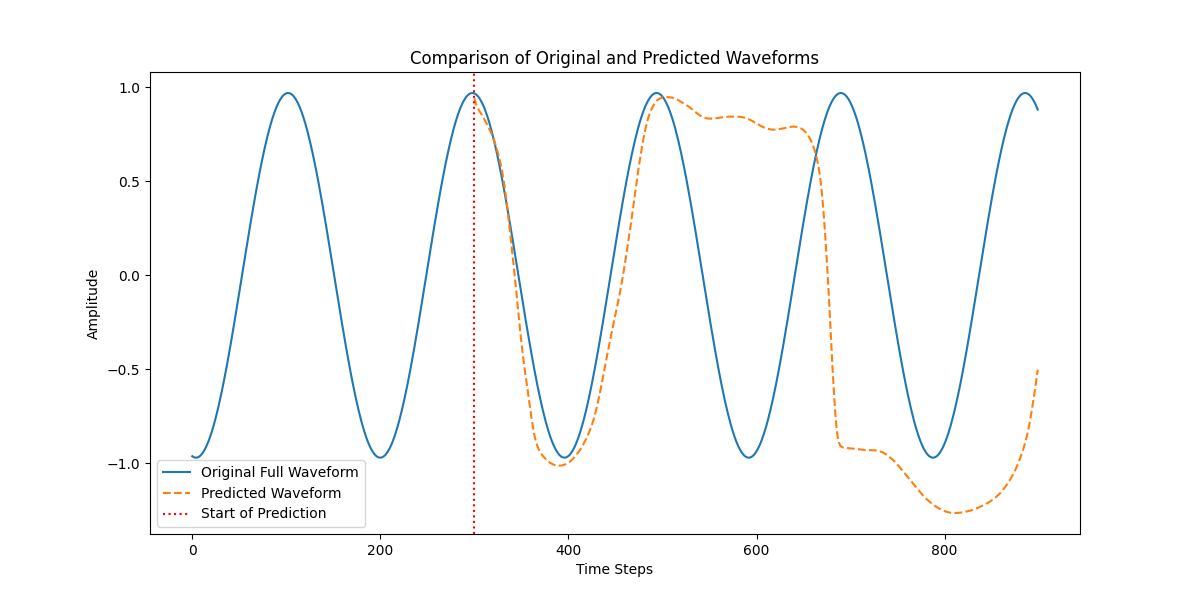
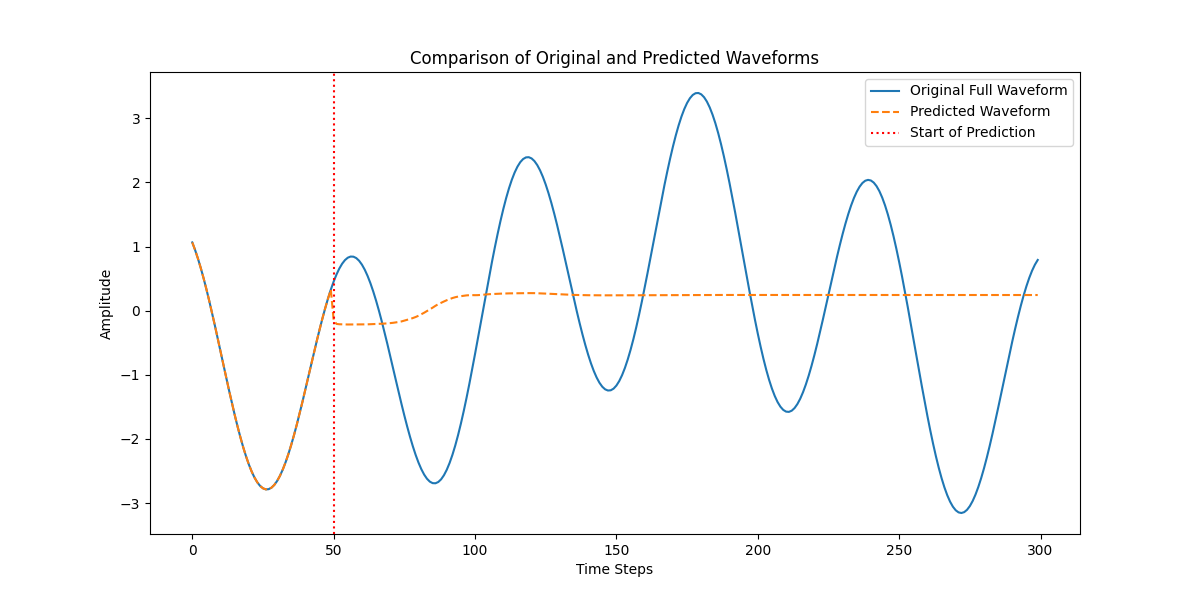
progress

diff --git a/playground/playground.py b/playground/playground.py
@@ -7,15 +7,29 @@ device = torch.device("mps" if torch.backends.mps.is_available() else "cpu")
 print(f"Using device: {device}")
 
 
-def generate_waveforms(num_sequences, full_sequence_length, num_modes, freq_range, amp_range, phase_range):
-    waveforms = np.zeros((num_sequences, full_sequence_length))
-    t = np.linspace(0, 3, full_sequence_length, endpoint=False)
+def generate_waveforms(num_sequences, sequence_length, num_modes, freq_range, amp_range, phase_range):
+    """
+    Generates a dataset of waveforms, each composed of a sum of sinusoidal modes.
+
+    Parameters:
+    - num_sequences (int): Number of waveform sequences to generate.
+    - sequence_length (int): Number of samples in each waveform sequence.
+    - num_modes (int): Number of sinusoidal modes per sequence.
+    - freq_range (tuple): Range of frequencies (min_freq, max_freq).
+    - amp_range (tuple): Range of amplitudes (min_amp, max_amp).
+    - phase_range (tuple): Range of phases (min_phase, max_phase).
+
+    Returns:
+    - np.array: Array of shape (num_sequences, sequence_length) containing the generated waveforms.
+    """
+    waveforms = np.zeros((num_sequences, sequence_length))
+    t = np.linspace(0, 2 * np.pi, sequence_length, endpoint=False)
     for i in range(num_sequences):
         for _ in range(num_modes):
             frequency = np.random.uniform(*freq_range)
             amplitude = np.random.uniform(*amp_range)
             phase = np.random.uniform(*phase_range)
-            waveforms[i] += amplitude * np.sin(2 * np.pi * frequency * t + phase)
+            waveforms[i] += amplitude * np.sin(frequency * t + phase)
     return waveforms
 
 
@@ -91,7 +105,7 @@ def prepare_data(waveforms, base_sequence_length):
 if __name__ == "__main__":
     num_epochs = 20
     num_sequences = 20
-    base_sequence_length = 300  # Consistent sequence length for training and inference
+    base_sequence_length = 150  # Consistent sequence length for training and inference
     full_sequence_length = base_sequence_length * 6  # Longer sequence to enable sliding window
     num_modes = 5
     freq_range = (1, 5)
@@ -100,6 +114,14 @@ if __name__ == "__main__":
 
     waveforms = generate_waveforms(num_sequences, full_sequence_length, num_modes, freq_range, amp_range, phase_range)
     inputs, targets = prepare_data(waveforms, base_sequence_length)
+
+    plt.figure(figsize=(12, 6))
+    plt.plot(np.arange(full_sequence_length), waveforms[0], label='Input Waveform')
+    plt.legend()
+    plt.title('Input Waveform')
+    plt.xlabel('Time Steps')
+    plt.ylabel('Amplitude')
+    plt.savefig('input_waveform.png')
 
     print(inputs.shape)
     print(targets.shape)
@@ -130,7 +152,10 @@ if __name__ == "__main__":
             while len(predictions) < (total_length - initial_input.size(1)):
                 output = model(input_sequence)
                 predictions.append(output)
+                output = output.unsqueeze(1)
                 # Append the predicted token to the input sequence
+                print("input sequence shape: ", input_sequence.shape)
+                print("output shape: ", output.shape)
                 input_sequence = torch.cat((input_sequence, output), dim=1)
                 # Sliding window: remove the oldest token if sequence length exceeds base_sequence_length
                 if input_sequence.size(1) > base_sequence_length:
@@ -142,13 +167,31 @@ if __name__ == "__main__":
     predicted_output = autoregressive_inference(model, test_input, full_sequence_length, base_sequence_length)
     predicted_output = predicted_output.squeeze().cpu().numpy()
 
+    # Combine the input sequence and predicted output
+    combined_output = np.concatenate((test_input.squeeze().cpu().numpy(), predicted_output))
+
     plt.figure(figsize=(12, 6))
     plt.plot(np.arange(full_sequence_length), waveforms[0], label='Original Full Waveform')
-    plt.plot(np.arange(base_sequence_length, full_sequence_length),
-             predicted_output, label='Predicted Waveform', linestyle='--')
+    plt.plot(np.arange(full_sequence_length), combined_output, label='Predicted Waveform', linestyle='--')
     plt.axvline(x=base_sequence_length, color='r', linestyle=':', label='Start of Prediction')
     plt.legend()
     plt.title('Comparison of Original and Predicted Waveforms')
     plt.xlabel('Time Steps')
     plt.ylabel('Amplitude')
     plt.savefig('waveform_comparison.png')
+
+    # # Visualizing the predictions
+    # test_input = inputs[:1, :base_sequence_length, :]  # Take the first sample for testing
+    # predicted_output = autoregressive_inference(model, test_input, full_sequence_length, base_sequence_length)
+    # predicted_output = predicted_output.squeeze().cpu().numpy()
+
+    # plt.figure(figsize=(12, 6))
+    # plt.plot(np.arange(full_sequence_length), waveforms[0], label='Original Full Waveform')
+    # plt.plot(np.arange(base_sequence_length, full_sequence_length),
+    #          predicted_output, label='Predicted Waveform', linestyle='--')
+    # plt.axvline(x=base_sequence_length, color='r', linestyle=':', label='Start of Prediction')
+    # plt.legend()
+    # plt.title('Comparison of Original and Predicted Waveforms')
+    # plt.xlabel('Time Steps')
+    # plt.ylabel('Amplitude')
+    # plt.savefig('waveform_comparison.png')
